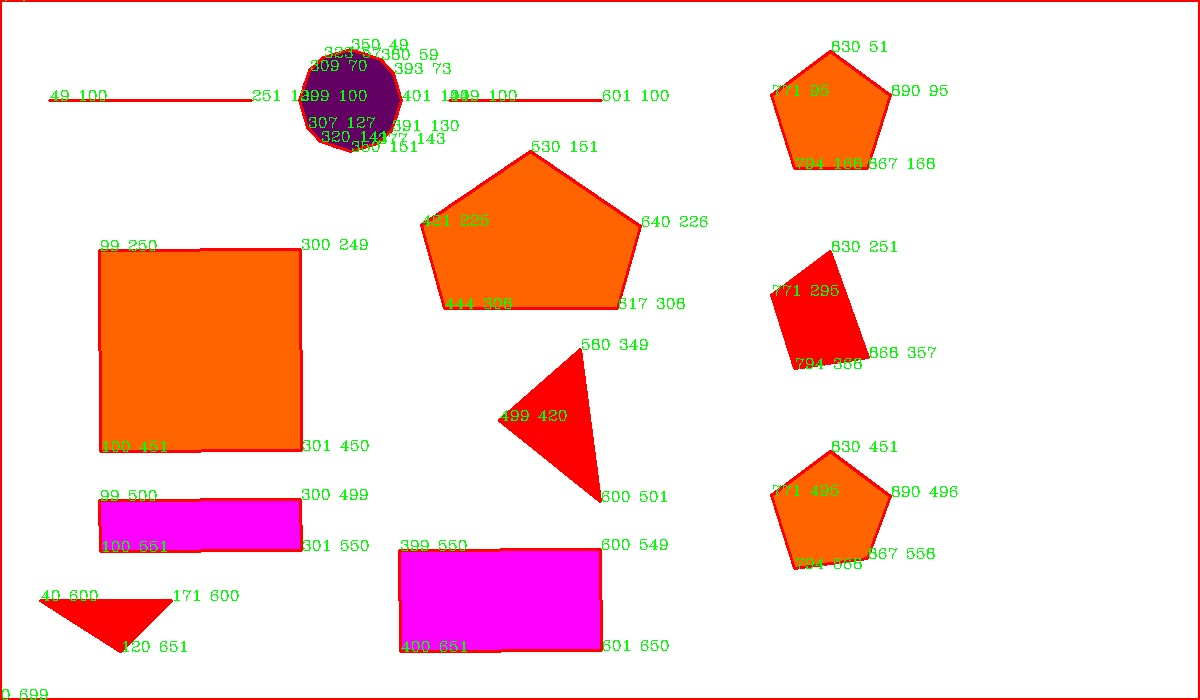
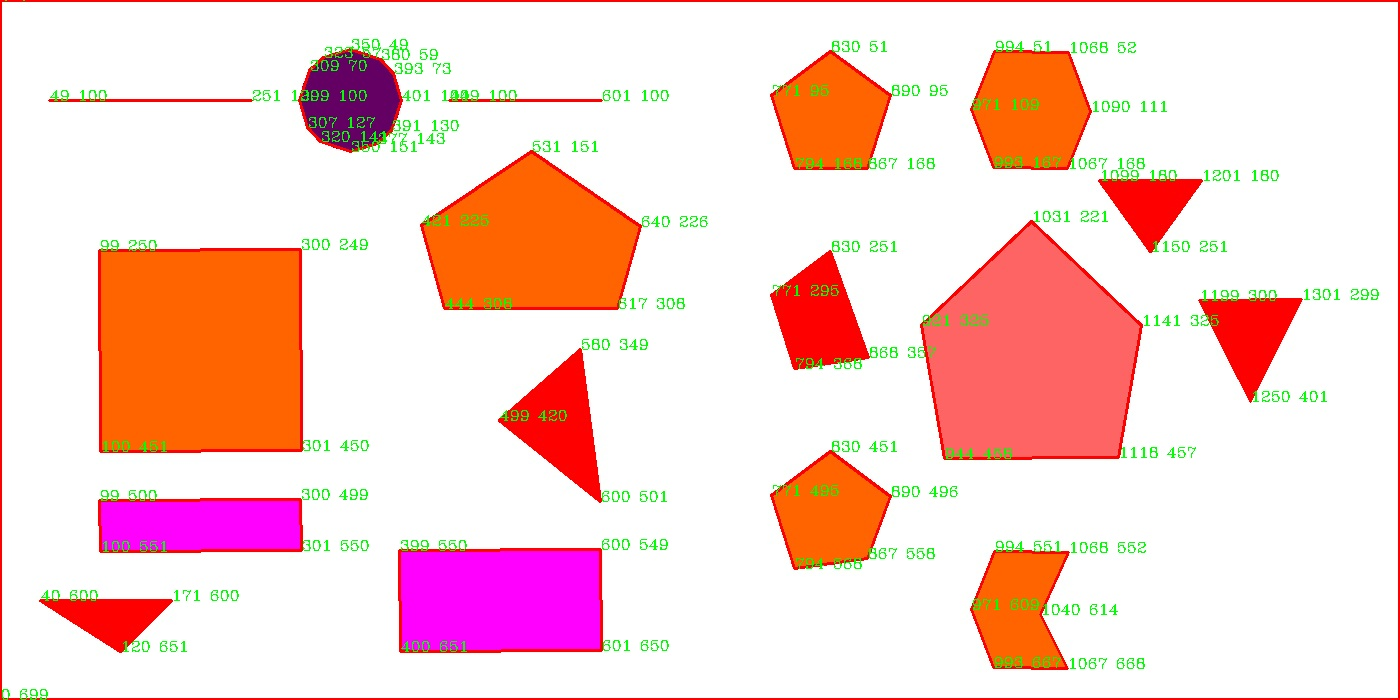
17-04-2022  11:09 PM

diff --git a/numPY/shapedetection.py b/numPY/shapedetection.py
@@ -26,7 +26,7 @@ def calculate_centroid(a):
   return([x,y])
 
 # img2=cv2.imread("filter/shapes.jpg")
-img=cv2.imread("filter/shapes2.png")
+img=cv2.imread("newimg.jpg")
 #img=cv2.resize(img,(0,0),fx=1.5,fy=1.5)
 # img=np.stack((img,img2))
 # print(img.shape)
@@ -82,22 +82,44 @@ for contour in contours[1:]:
       print(approx[i],approx[i+1])
       dis.append(distance(approx[i],approx[i+1]))
     dis.append(distance(approx[4],approx[0]))
+    dis.sort()
     print(dis)
 
-    for i in range(5):
-      if(int(dis[i]) in dis[i+1:]):
-        count+=1
+    for i in range(0,5):
+      for j in range(i+1,5):
+        if(dis[j]<=(dis[i]+1) and dis[j]>=(dis[i]-1)):
+          count+=1
     print(count)
-    if(count==2 or count==3):
+    if(count>=2):
       cv2.putText(img,'PENTAGON',(x,y-10),cv2.FONT_HERSHEY_SIMPLEX,1,(0,255,0),2)
     else:
       dis=[]
       count=0
-      cv2.putText(img,'irregular polygon',(x,y-10),cv2.FONT_HERSHEY_SIMPLEX,1,(0,0,0),2)
+      cv2.putText(img,'irregular polygon',(x,y-10),cv2.FONT_HERSHEY_SIMPLEX,1,(0,0,255),2)
 
 
   elif(len(approx)==6):
-    cv2.putText(img,'HEXAGON',(x,y-10),cv2.FONT_HERSHEY_SIMPLEX,1,(0,255,0),2)
+    dis=[]
+    count=0
+    approx=np.squeeze(approx)
+    for i in range(0,5):
+      print(approx[i],approx[i+1])
+      dis.append(distance(approx[i],approx[i+1]))
+    dis.append(distance(approx[5],approx[0]))
+    #dis.sort()
+    print(dis)
+
+    for i in range(0,6):
+      for j in range(i+1,6):
+        if(dis[j]<=(dis[i]+1) and dis[j]>=(dis[i]-1)):
+          count+=1
+    print(count)
+    if(count>=4):
+      cv2.putText(img,'HEXAGON',(x,y-10),cv2.FONT_HERSHEY_SIMPLEX,1,(0,255,0),2)
+    else:
+      dis=[]
+      count=0
+      cv2.putText(img,'irregular polygon',(x,y-10),cv2.FONT_HERSHEY_SIMPLEX,1,(0,0,255),2)
   else:
     cv2.putText(img,'CIRCLE',(x,y-10),cv2.FONT_HERSHEY_SIMPLEX,1,(0,0,255),2)
 #threshimg=cv2.cvtColor(threshimg,cv2.COLOR_GRAY2BGR)

diff --git a/numPY/checktriangle.py b/numPY/checktriangle.py
@@ -19,6 +19,7 @@ def verify_opposides(a):
 
 
 img=cv2.imread("newimg.jpg")
+#img=cv2.resize(img,(0,0),fx=1.5,fy=1.5)
 
 grayimg=cv2.cvtColor(img,cv2.COLOR_BGR2GRAY)
 
@@ -29,34 +30,36 @@ contours,hierarchy=cv2.findContours(threshimg,cv2.RETR_TREE,cv2.CHAIN_APPROX_SIM
 for contour in contours[1:]:
   arclen=cv2.arcLength(contour, True)
   approx = cv2.approxPolyDP(contour, 0.009 * arclen, True)
-  cv2.drawContours(img,[approx],0,(0,255,0),2)
+  cv2.drawContours(img,[approx],0,(100,100,0),2)
 
   x,y,w,h=cv2.boundingRect(approx)
 
   print(approx)
 
-  if(len(approx)==5):
+  if(len(approx)==3):
     dis=[]
     count=0
     approx=np.squeeze(approx)
-    for i in range(0,4):
+    for i in range(0,2):
       print(approx[i],approx[i+1])
       dis.append(distance(approx[i],approx[i+1]))
-    dis.append(distance(approx[4],approx[0]))
-    dis.sort()
+    dis.append(distance(approx[2],approx[0]))
+    #dis.sort()
     print(dis)
 
-    for i in range(0,5):
-      for j in range(i+1,5):
+    for i in range(0,3):
+      for j in range(i+1,3):
         if(dis[j]<=(dis[i]+1) and dis[j]>=(dis[i]-1)):
           count+=1
     print(count)
-    if(count>=2):
-      cv2.putText(img,'PENTAGON',(x,y-10),cv2.FONT_HERSHEY_SIMPLEX,1,(0,255,0),2)
+    if(count==3):
+      cv2.putText(img,'equilateral',(x,y-10),cv2.FONT_HERSHEY_SIMPLEX,1,(0,255,0),2)
+    elif(count==1):
+      cv2.putText(img,'isosceles',(x,y-10),cv2.FONT_HERSHEY_SIMPLEX,1,(0,255,0),2)
     else:
       dis=[]
       count=0
-      cv2.putText(img,'irregular polygon',(x,y-10),cv2.FONT_HERSHEY_SIMPLEX,1,(0,0,255),2)
+      cv2.putText(img,'Scalene',(x,y-10),cv2.FONT_HERSHEY_SIMPLEX,1,(0,0,255),2)
 
 cv2.imshow("img1",img)
 

diff --git a/openCV/saveimage.py b/openCV/saveimage.py
@@ -2,7 +2,7 @@ import numpy as np
 import cv2
 
 img=cv2.imread('filter/rect.png')
-img1=np.full((700,1200,3),(255,255,255),dtype=np.uint8)
+img1=np.full((700,1400,3),(255,255,255),dtype=np.uint8)
 # img1=cv2.cvtColor(img, cv2.COLOR_BIN)
 # img2=100*np.ones((300,300),np.uint8)
 print(img.shape)
@@ -15,10 +15,25 @@ img2=cv2.line(img1,(50,100),(250,100),(0,0,0),1)
 pts = [(830 ,52),(772,95),( 794,167),(867,167),(889 ,95)]
 cv2.fillPoly(img1, np.array([pts]),(0,100,255))
 
+pts = [(1067 ,52),(994 ,52),(972,110),( 994,167),(1067,167),(1089 ,110)]
+cv2.fillPoly(img1, np.array([pts]),(0,100,255))
+
+pts = [(1067 ,552),(994 ,552),(972,610),( 994,667),(1067,667),(1039 ,615)]
+cv2.fillPoly(img1, np.array([pts]),(0,100,255))
+
 pts = [(531 ,152),(422,225),( 444,307),(617,307),(639 ,225)]
 cv2.fillPoly(img1, np.array([pts]),(0,100,255))
 
+pts = [(1031 ,222),(922,325),( 944,457),(1117,457),(1140 ,325)]
+cv2.fillPoly(img1, np.array([pts]),(100,100,255))
+
 pts = [(580,350), (500, 420),(600,500)]
+cv2.fillPoly(img1, np.array([pts]),(0,0,255))
+
+pts = [(1100,180), (1200, 180),(1150,250)]
+cv2.fillPoly(img1, np.array([pts]),(0,0,255))
+
+pts = [(1192,300), (1308, 300),(1250,200)]
 cv2.fillPoly(img1, np.array([pts]),(0,0,255))
 
 pts = [(830 ,452),(772,495),( 794,567),(867,557),(889 ,495)]

diff --git a/numPY/checkhexagon.py b/numPY/checkhexagon.py
@@ -35,24 +35,24 @@ for contour in contours[1:]:
 
   print(approx)
 
-  if(len(approx)==5):
+  if(len(approx)==6):
     dis=[]
     count=0
     approx=np.squeeze(approx)
-    for i in range(0,4):
+    for i in range(0,5):
       print(approx[i],approx[i+1])
       dis.append(distance(approx[i],approx[i+1]))
-    dis.append(distance(approx[4],approx[0]))
-    dis.sort()
+    dis.append(distance(approx[5],approx[0]))
+    #dis.sort()
     print(dis)
 
-    for i in range(0,5):
-      for j in range(i+1,5):
+    for i in range(0,6):
+      for j in range(i+1,6):
         if(dis[j]<=(dis[i]+1) and dis[j]>=(dis[i]-1)):
           count+=1
     print(count)
-    if(count>=2):
-      cv2.putText(img,'PENTAGON',(x,y-10),cv2.FONT_HERSHEY_SIMPLEX,1,(0,255,0),2)
+    if(count>=4):
+      cv2.putText(img,'HEXAGON',(x,y-10),cv2.FONT_HERSHEY_SIMPLEX,1,(0,255,0),2)
     else:
       dis=[]
       count=0

diff --git a/numPY/tempCodeRunnerFile.py b/numPY/tempCodeRunnerFile.py
@@ -1,1 +1,1 @@
-print(contour)
+filter/types.jpg
